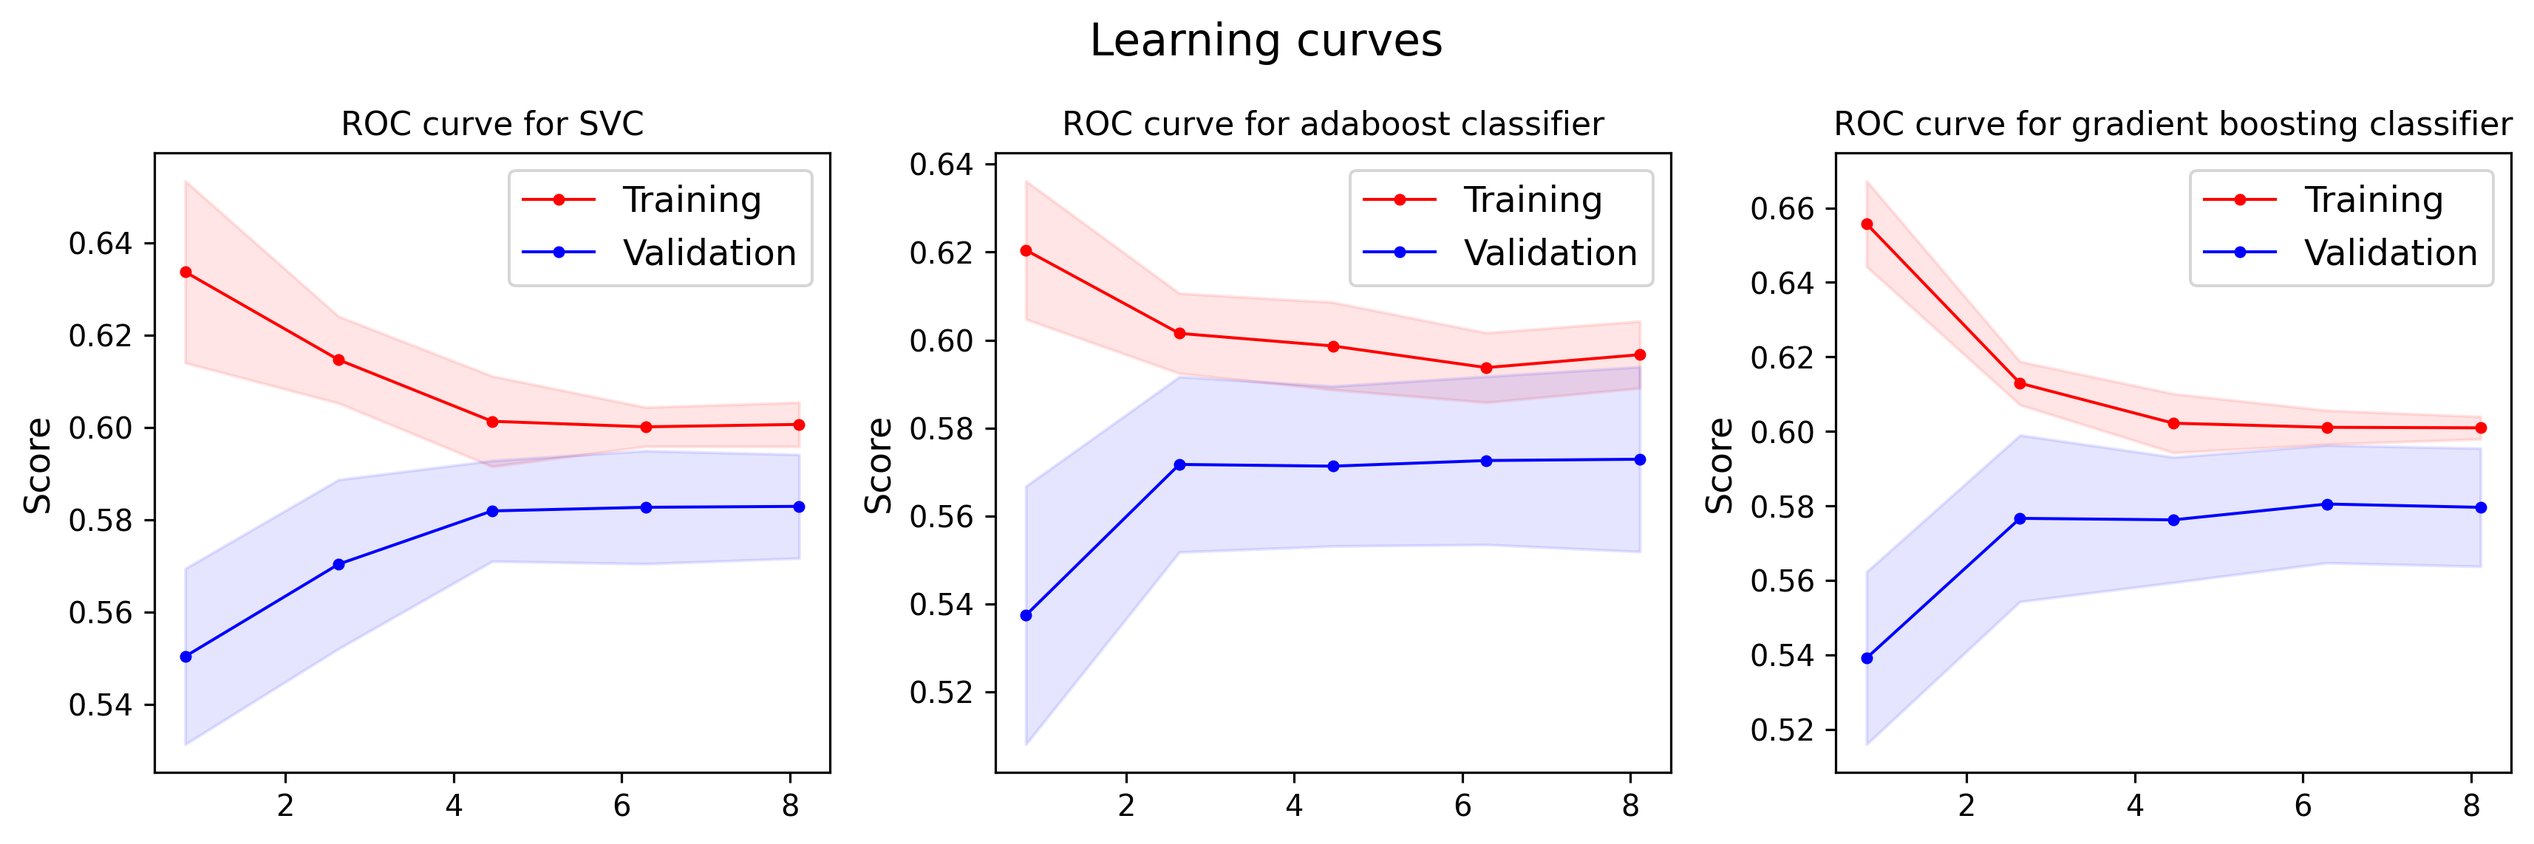
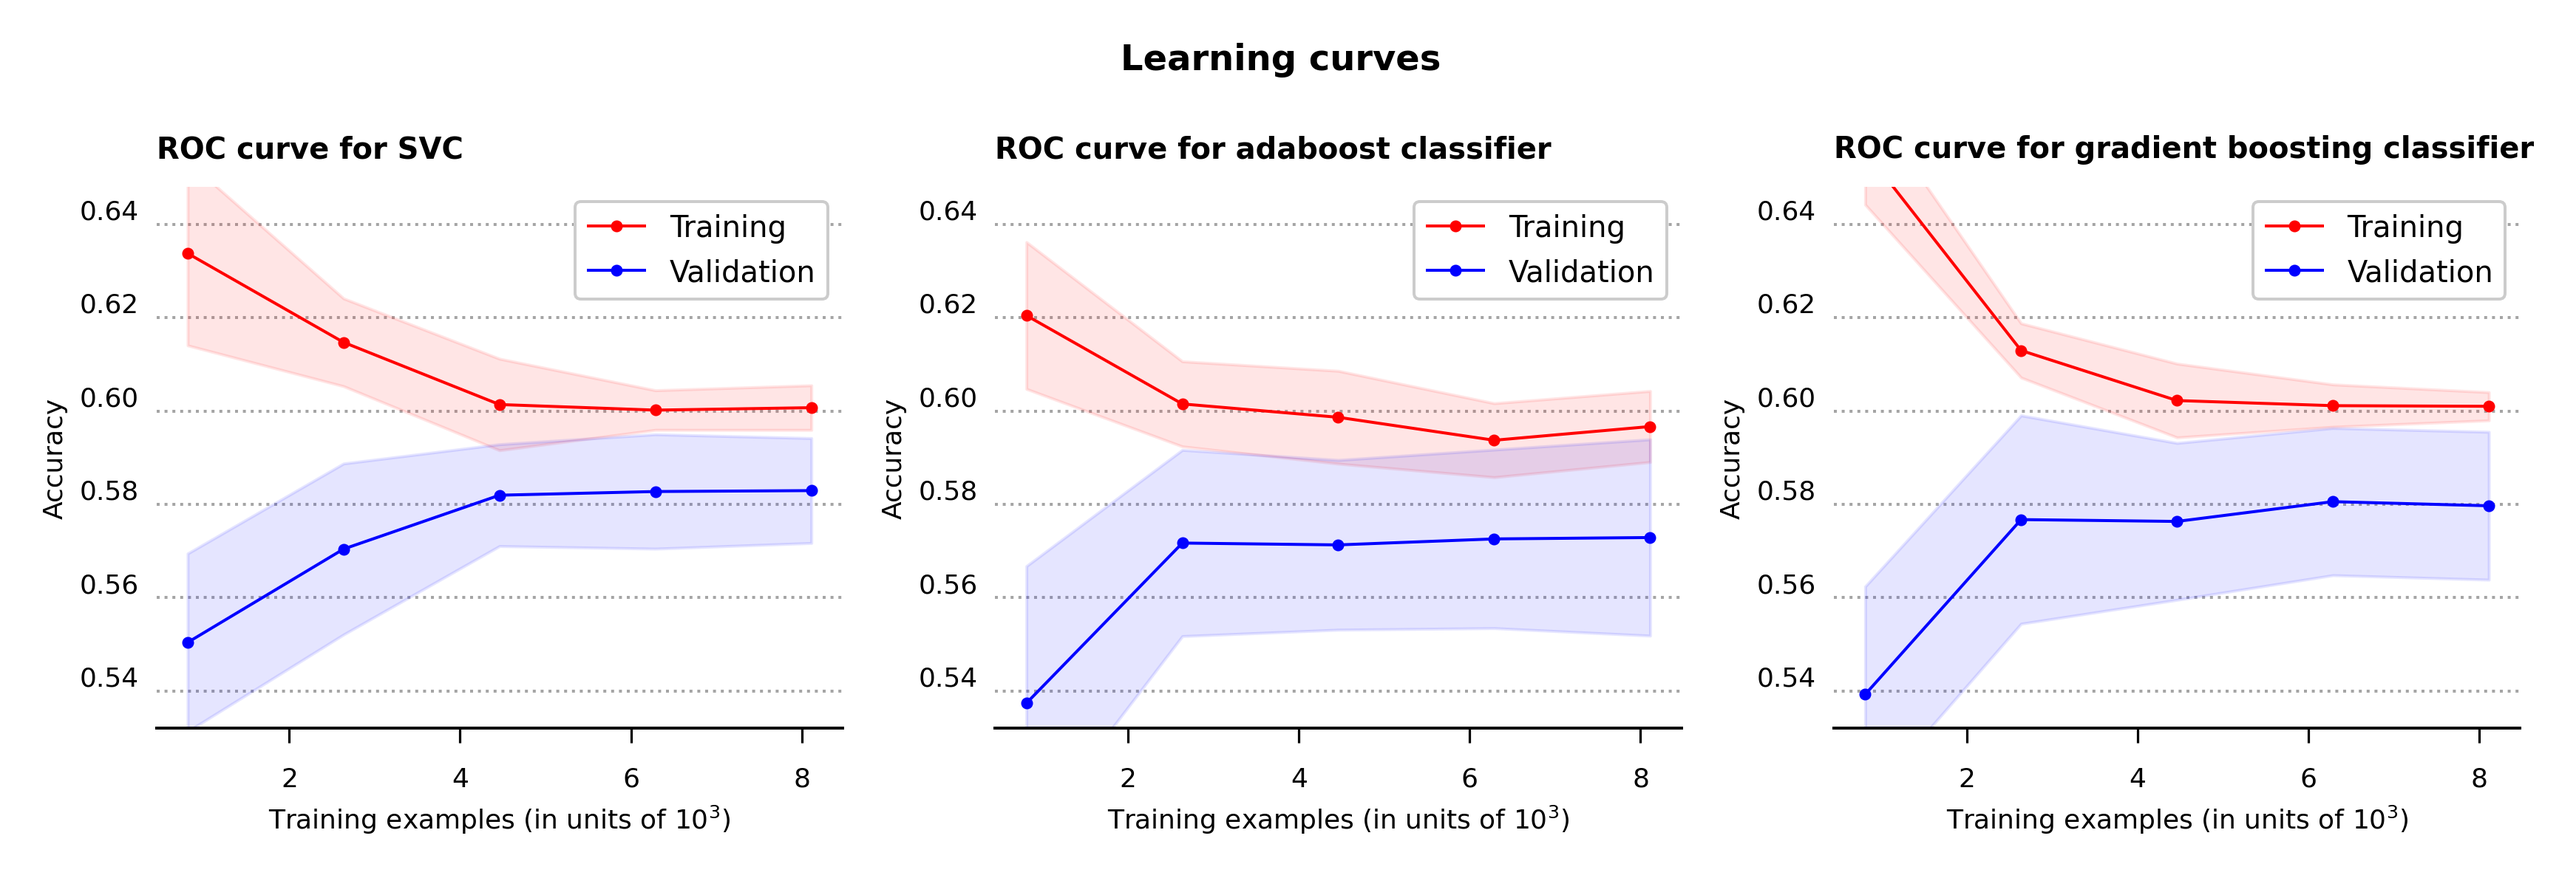
Using line plot style file

diff --git a/learning_curves_plot.py b/learning_curves_plot.py
@@ -1,10 +1,11 @@
 #!/usr/bin/env python
 
-from pathlib import Path
 import numpy as np
 import pandas as pd
-from time import time
+from pathlib import Path
 import json
+from time import time
+from datetime import timedelta
 from sklearn.model_selection import learning_curve
 from sklearn.compose import (make_column_selector,
                              make_column_transformer)
@@ -20,6 +21,7 @@ from sklearn.svm import SVC
 import matplotlib.pyplot as plt
 from matplotlib import ticker
 
+plt.style.use("lineplot-style.mplstyle")
 
 work_dir = Path.home() / 'Programming/Python/machine-learning-exercises/'\
                          'uci-ml-repository/diabetes-in-130-US-hospitals'
@@ -145,16 +147,24 @@ for ax, (model_name, model_instance) in zip(axes.flatten(),
             linewidth=1, label='Training')
     ax.plot(train_sizes, val_scores_means, 'b.-',
             linewidth=1, label='Validation')
-    ax.legend(loc='best', fontsize=12)
+    ax.legend(loc='best', fontsize=10)
     if len(model_name) > 3:
-        ax.set_title(f'ROC curve for {model_name.lower()}', fontsize=11)
+        ax.set_title(f'ROC curve for {model_name.lower()}', fontsize=10)
     else:
-        ax.set_title(f'ROC curve for {model_name.upper()}', fontsize=11)
+        ax.set_title(f'ROC curve for {model_name.upper()}', fontsize=10)
     ticks = ticker.FuncFormatter(lambda x, _: '{0:g}'.format(x*1e-3))
     ax.xaxis.set_major_formatter(ticks)
-    ax.set_ylabel('Score', fontsize=12)
-fig.suptitle('Learning curves', fontsize=15)
+    ax.set_xlabel('Training examples (in units of $10^3$)', fontsize=9)
+    ax.set_ylabel('Accuracy', fontsize=9)
+    ax.set_ylim([0.532, 0.648])
+    plt.setp(ax.get_xticklabels(), fontsize=8)
+    plt.setp(ax.get_yticklabels(), fontsize=8)
+fig.suptitle('Learning curves', fontsize=12, fontweight='bold')
 fig.tight_layout()
 plt.savefig(work_dir / 'plots/learning_curves_plot.png',
-            dpi=288, bbox_inches='tight')
-print(f'Time elapsed: {(time() - t0):.2f} seconds')
+            bbox_inches='tight')
+
+seconds_rounded = round(time() - t0)
+time_elapsed_in_secs = str(timedelta(seconds=seconds_rounded)).split(':')
+formatted_time = '{}h {}m {}s'.format(*time_elapsed_in_secs)
+print(f'Time elapsed: {formatted_time}.')

diff --git a/correlation_plot.py b/correlation_plot.py
@@ -5,6 +5,8 @@ import pandas as pd
 import matplotlib.pyplot as plt
 import seaborn as sns
 
+plt.style.use("lineplot-style.mplstyle")
+
 work_dir = Path.home() / 'Programming/Python/machine-learning-exercises/'\
                          'uci-ml-repository/diabetes-in-130-US-hospitals'
 df = pd.read_csv(work_dir / 'data/diabetic_data.csv')
@@ -22,6 +24,8 @@ plt.setp(axes.get_xticklabels(), ha="right", rotation_mode="anchor",
          rotation=45, fontsize=10)
 plt.setp(axes.get_yticklabels(), ha="right", rotation_mode="anchor",
          rotation=0, fontsize=10)
-plt.title('Correlation plot of numeric features', fontsize=16)
+cbar = axes.collections[0].colorbar
+cbar.ax.tick_params(labelsize=8)
+plt.title('Correlation plot of numeric features', fontsize=12)
 fig.tight_layout()
 plt.savefig(work_dir / 'plots/corr_plot.png', dpi=288)
